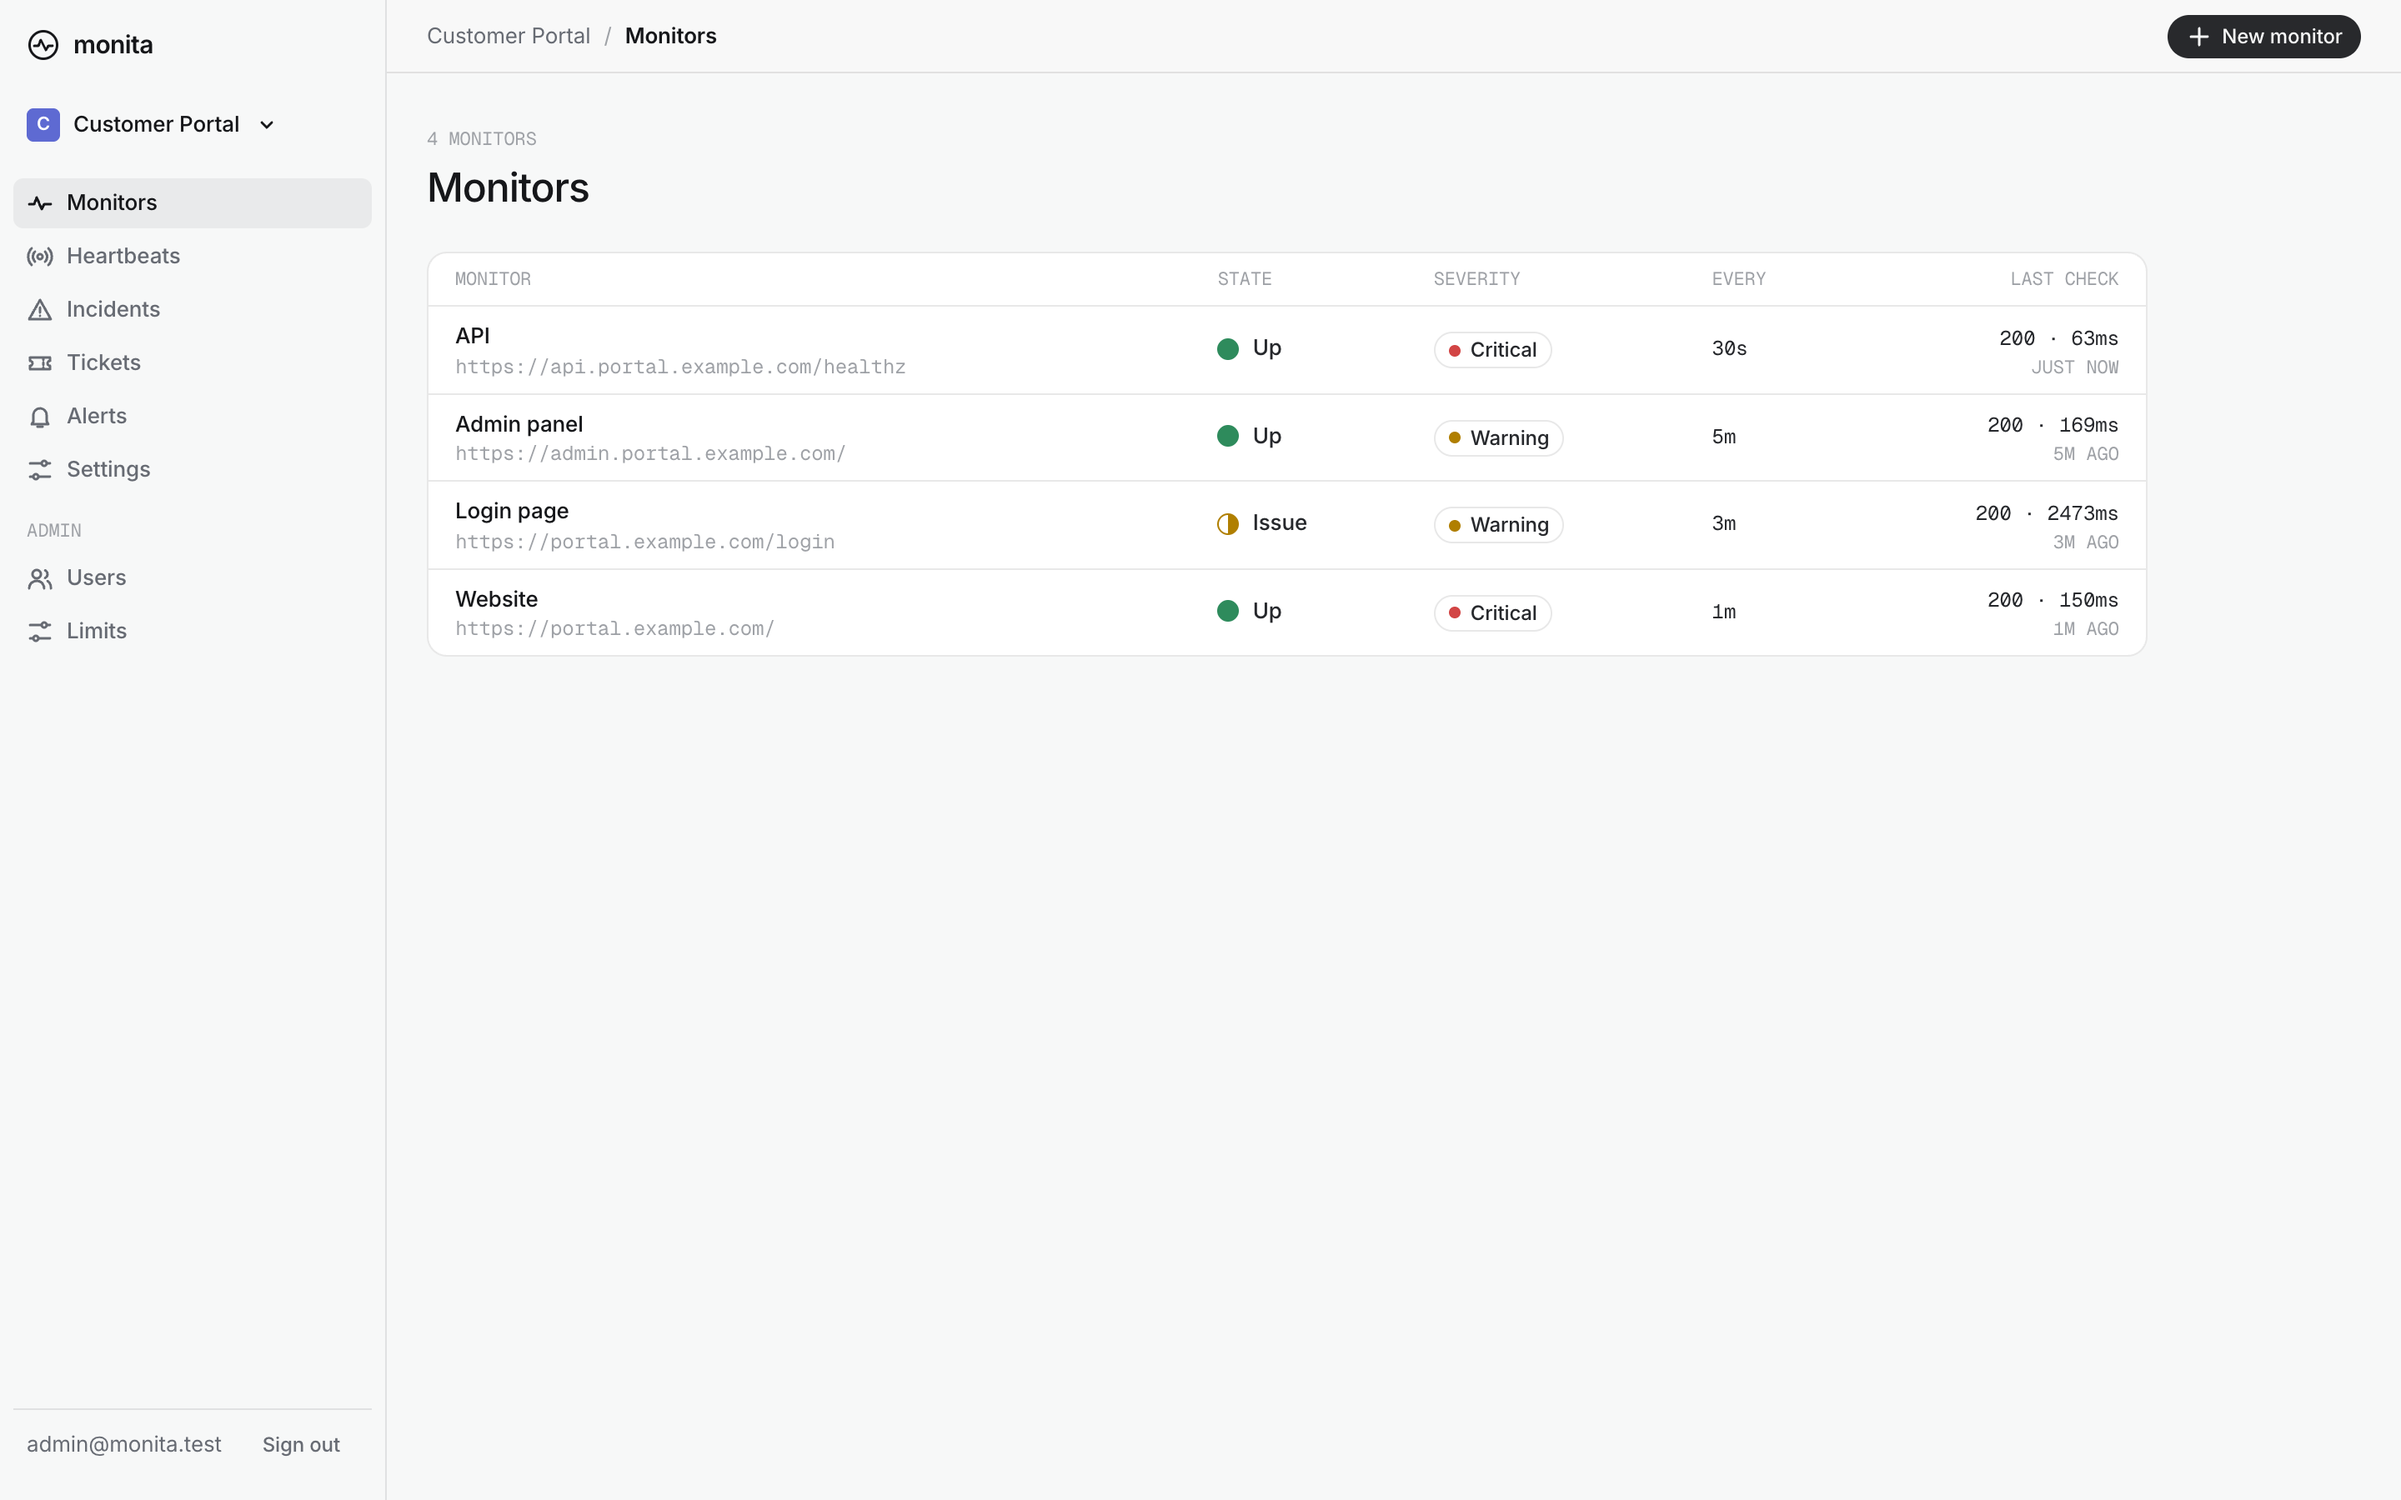
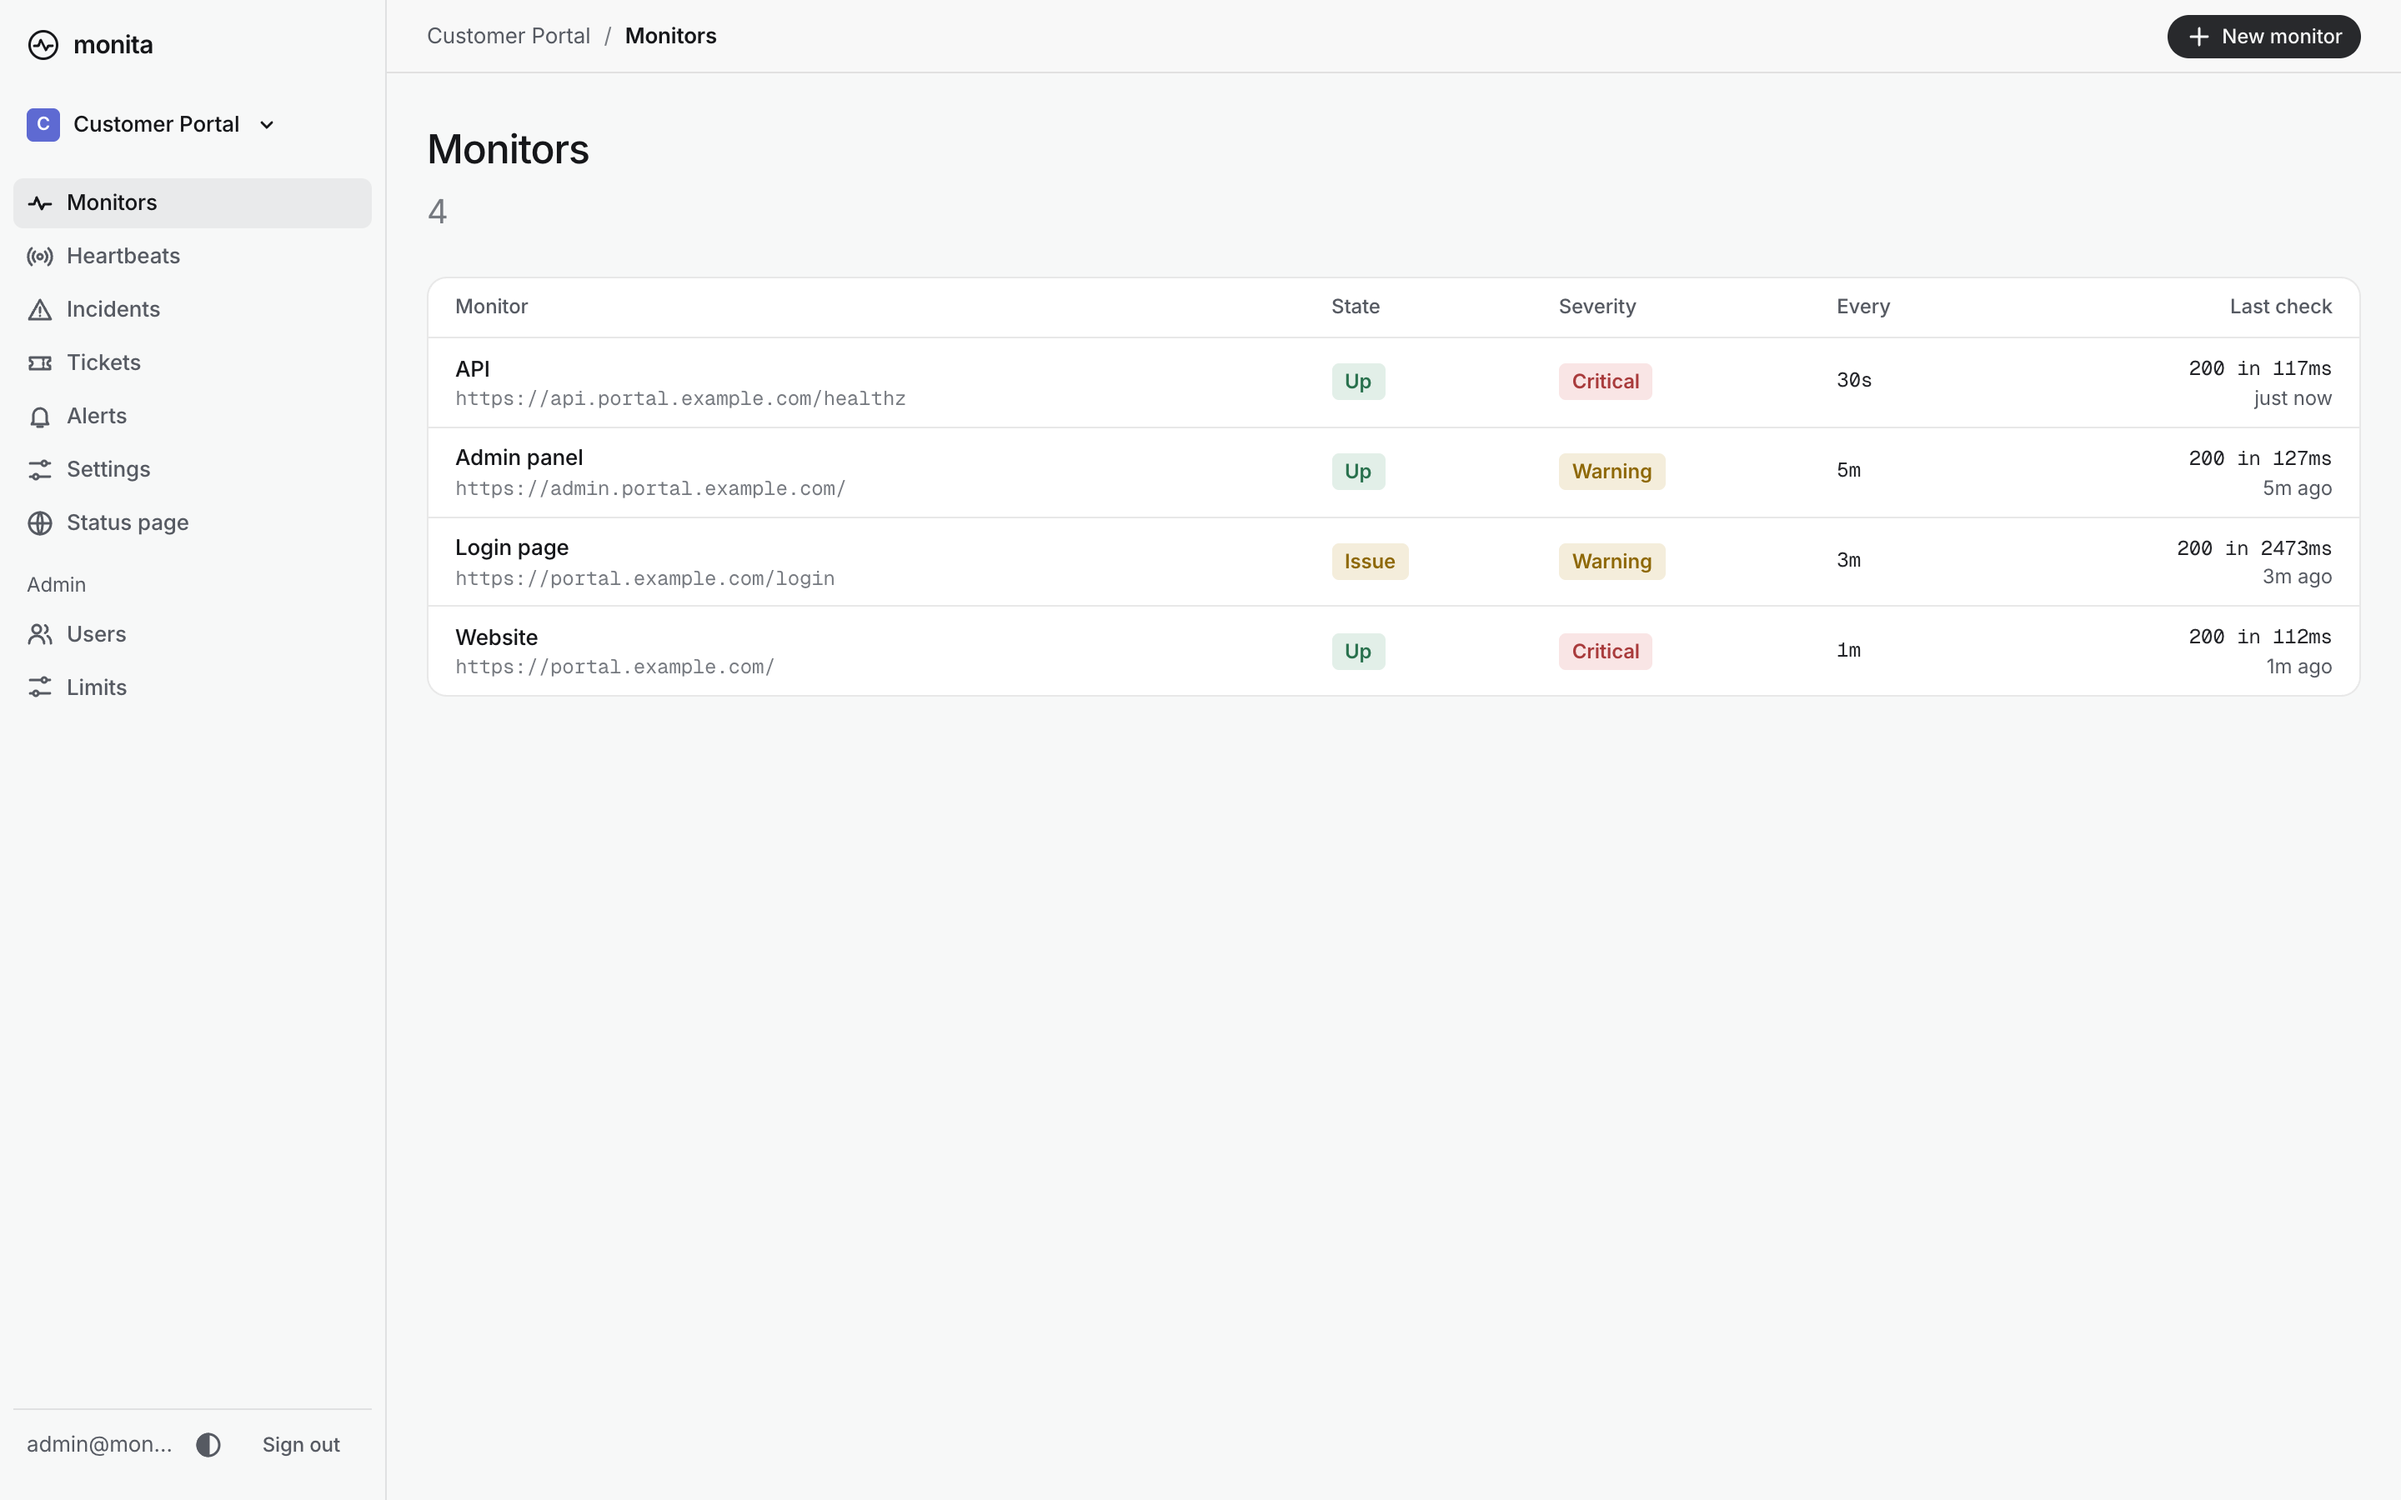
docs: refresh the README and screenshots, and write the no-slop rules down
The README hero is the monitor page with its chart and links to the
website, demo and docs. The design system records the clean-UI rules:
tone pills instead of dots, counts beside titles, no labels above titles
or subtitles under fields, no dot separators.

diff --git a/README.md b/README.md
@@ -8,9 +8,10 @@ One self-hosted binary, one SQLite file.
 [![CI](https://github.com/PT-Perkasa-Pilar-Utama/monita/actions/workflows/ci.yml/badge.svg)](https://github.com/PT-Perkasa-Pilar-Utama/monita/actions/workflows/ci.yml)
 [![License: MIT](https://img.shields.io/badge/license-MIT-5e6ad2)](LICENSE)
 
-**[Try the demo](https://pt-perkasa-pilar-utama.github.io/monita/demo/)** &nbsp;·&nbsp;
-**[Install](#install)** &nbsp;·&nbsp;
-**[Docs](#docs)**
+**[Website](https://pt-perkasa-pilar-utama.github.io/monita/)** &nbsp;&nbsp;
+**[Try the demo](https://pt-perkasa-pilar-utama.github.io/monita/demo/)** &nbsp;&nbsp;
+**[Docs](https://pt-perkasa-pilar-utama.github.io/monita/docs/)** &nbsp;&nbsp;
+**[Install](#install)**
 
 </div>
 
@@ -25,11 +26,11 @@ Better Stack.
 The [demo](https://pt-perkasa-pilar-utama.github.io/monita/demo/) is a read-only snapshot of the
 real app on sample data.
 
-![A project's public status page: 90 days of uptime per service and the incident timeline](docs/assets/screens/status.png)
+![A monitor page: uptime streak, last check, mean response time, a response-time chart and availability](docs/assets/screens/monitor.png)
 
-| Monitors | Tickets |
+| Status page | Tickets |
 | --- | --- |
-| ![Monitors with state, severity and last check](docs/assets/screens/monitors.png) | ![The ticket kanban: triage, backlog, in progress, done](docs/assets/screens/tickets.png) |
+| ![A project's public status page: 90 days of uptime per service and the incident timeline](docs/assets/screens/status.png) | ![The ticket kanban: triage, backlog, in progress, done](docs/assets/screens/tickets.png) |
 
 ## Install
 
@@ -42,7 +43,7 @@ sudo monita service install   # systemd unit, started now and at every boot
 ```
 
 Put your HTTPS reverse proxy in front of `127.0.0.1:8080`. Backups, restore and upgrades:
-[Install and run](docs/INSTALL.md).
+[Install](https://pt-perkasa-pilar-utama.github.io/monita/docs/install/) and [Operations](https://pt-perkasa-pilar-utama.github.io/monita/docs/operations/).
 
 ## Ping from a cron job
 
@@ -56,12 +57,14 @@ send its error as the request body: the first 1 KB becomes the incident's cause.
 
 ## Docs
 
-| Run it | Integrate | Reference |
+The [documentation](https://pt-perkasa-pilar-utama.github.io/monita/docs/) covers getting started, every integration, and running Monita in production. Its sources are in [docs/guide/](docs/guide/).
+
+| Start | Integrate | Reference |
 | --- | --- | --- |
-| [Install and run](docs/INSTALL.md) | [Ping API](docs/api-specs/04-checks.md) | [Technical specs](docs/technical-specs/_index.md) |
-| [Configuration](docs/technical-specs/11-environment-configuration.md) | [Status JSON](docs/api-specs/07-status.md) | [API specs](docs/api-specs/_index.md) |
-| [Command line](docs/api-specs/10-cli.md) | [Tickets API](docs/api-specs/08-tickets.md) | [Design system](docs/design-system/) |
-| [Security](docs/technical-specs/07-security.md) | [Webhook payload](docs/api-specs/06-notify.md) | [Decisions](docs/decisions/) |
+| [Getting started](docs/guide/getting-started.md) | [Heartbeats and cron](docs/guide/heartbeats.md) | [Technical specs](docs/technical-specs/_index.md) |
+| [Install](docs/guide/install.md) | [Status JSON](docs/guide/status-page.md) | [API specs](docs/api-specs/_index.md) |
+| [Configuration](docs/guide/configuration.md) | [Tickets API](docs/guide/tickets.md) | [Design system](docs/design-system/) |
+| [Operations](docs/guide/operations.md) | [Webhooks](docs/guide/incidents.md) | [Decisions](docs/decisions/) |
 
 ## Contributing
 

diff --git a/docs/design-system/02-components.md b/docs/design-system/02-components.md
@@ -6,8 +6,8 @@ Templates call the macros in `templates/ui/macros.html`. They never repeat the m
 | --- | --- | --- | --- |
 | Button | `.btn` + `--primary`, `--accent`, `--danger`, `--ghost`, `--sm`, `--lg` | `btn(label, kind, href)` | One `--primary` per view. `--danger` for revoke and delete. No icon-only buttons without `aria-label`. |
 | Status icon | `.st` + `--up`, `--down`, `--issue`, `--unknown`, `--triage`, `--backlog`, `--progress`, `--done` | `st(kind)` | 13 px ring or disc |
-| State | `.state` (`--down`) | `state(kind, label)` | Icon + word for a monitor or heartbeat |
-| Chip | `.chip` + `--critical`, `--warning`, `--investigating`, `--identified`, `--monitoring`, `--resolved` | `chip(kind, label)` | Severity and status-update labels. Plain `.chip` for neutral tags. |
+| State | `.state` + `--up`, `--down`, `--issue`, `--unknown` | `state(kind, label)` | Tone pill: tinted fill and coloured word, no dot. Monitor, heartbeat and incident state. |
+| Chip | `.chip` + `--critical`, `--warning`, `--investigating`, `--identified`, `--monitoring`, `--resolved` | `chip(kind, label)` | Severity and status-update labels, as tone pills like `.state`. Neutral facts use `.tag`. |
 | Panel | `.panel`, `.panel__head`, `.panel__body`, `.panel--float` | `panel_start(title)` / `panel_end()` | The one boxed surface. Group content, do not box every block. |
 | Table | `.table-wrap` > `.table`, `.table__title`, `.table__sub`, `.t-right` | none (plain HTML) | Lists of monitors, heartbeats, incidents, keys, users. Rows 44 px. |
 | Field | `.field`, `.label`, `.input`, `.select`, `.textarea`, `.help`, `.error`, `.field--error` | `input(name, label, value, error, help)`, `select(...)`, `textarea(...)` | Every form control has a `<label for>`. The error replaces nothing: it adds a line under the control. |
@@ -23,7 +23,8 @@ Templates call the macros in `templates/ui/macros.html`. They never repeat the m
 | Key-value | `.kv` (`dl`) | none | Incident facts, monitor settings |
 | Empty state | `.empty` | `empty(title, text, action)` | Every list with no rows says what the thing is and how to add the first one. |
 | Dialog | `dialog.dialog`, `.dialog__body`, `.dialog__foot` | `confirm(id, title, text, action)` | Confirm revoke and delete. Native `<dialog>`, no JS library. |
-| Caption | `.cap` | none | 11 px mono uppercase: IDs, times, counts |
+| Caption | `.cap` | none | 12 px muted sentence case. Never an uppercase label above a title. |
+| Title count | `.page-title` > `h1` + `.count` | none | A number beside a page title: "Monitors 4" |
 | Quiet link | `.link-quiet` | none | "Known issues →". Arrows live here, never inside buttons. |
 | Detail hero | `.hero`, `.orb` + `--down`, `--issue`, `--unknown`, `.hero__state`, `.tag` | none | Top of a monitor or heartbeat page: live state, name, cadence |
 | Stat | `.stats` > `.stat` + `--up`, `--down` | `checks/insight.html` | Four numbers under the hero |

diff --git a/docs/design-system/03-patterns.md b/docs/design-system/03-patterns.md
@@ -37,9 +37,12 @@ Project menu, in this order: Monitors, Heartbeats, Incidents, Tickets, Alerts, S
 
 | Do | Don't |
 | --- | --- |
-| Put color in icons and dots | Color a whole row or section |
+| Put state colour in a tone pill: tinted fill, coloured word | Decorative dots, pulsing orbs, dots before labels |
+| Put a count beside the title: "Monitors 4" | An uppercase label above a title |
+| Put a needed hint in the field's label | A subtitle under a form field |
+| Separate facts with spacing or a comma | `·` between facts |
 | Use one `--primary` button per view | Put two light pills side by side |
 | Separate groups with hairlines | Add shadows to flat panels |
-| Use `.cap` for IDs, times and counts | Uppercase headings or use weight 700 |
 | Fade colors on hover in 160 ms | Pulse, bounce or animate on scroll |
 | Write tokens on `:root` | Write a hex value in a template or a component rule |
+| Keep secondary text at 4.5:1 or more in both themes | Grey text that fades into the dark background |
